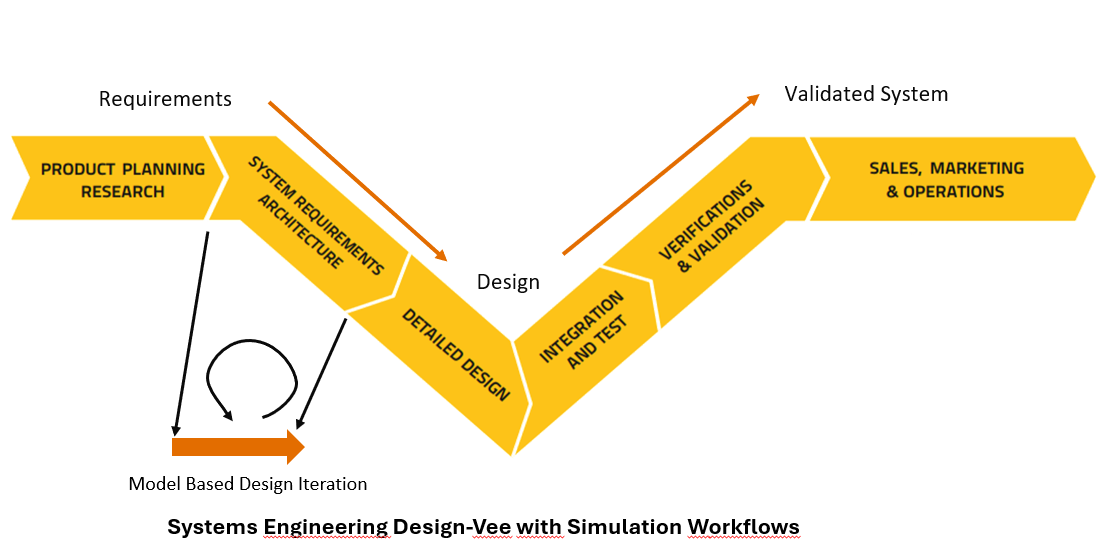
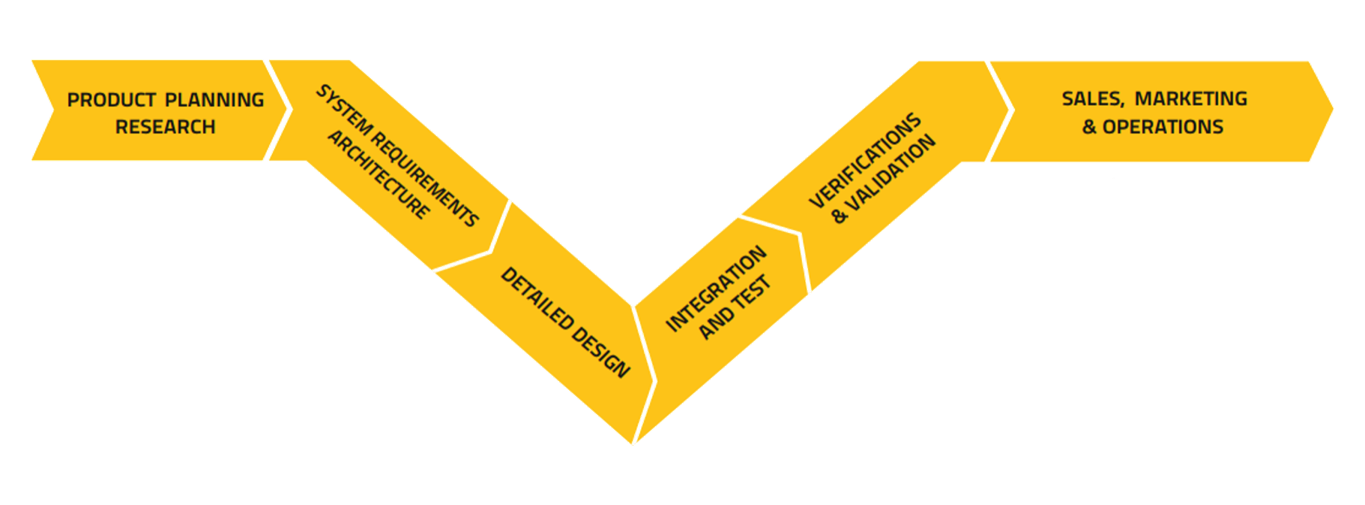
Fixes after initial deploy
Fixed typos, adapted images to dual mode, dark mode defauls

diff --git a/public/services/index.html b/public/services/index.html
@@ -14,14 +14,14 @@
   <link rel="stylesheet" href="/font-awesome/css/all.css">
   
   
-  <link rel="icon" href="/images/MiniLogo-favicon.svg">
-  
   
   
   <script src="/bootstrap/dist/js/bootstrap.bundle.9a4a11a15db88d5fab08f59c1c34796b03f1f15bb3cc928dd226e1c59f7f59a3.js"></script>
   
   
   
+  
+  <script src="/js/color-theme.js"></script>
   
   
 </head>
@@ -58,7 +58,7 @@
               <a class="nav-link py-2 px-0 px-lg-2 " href="/libraries/">Libraries</a>
             </li>
             <li class="nav-item col-6 col-lg-auto">
-              <a class="nav-link py-2 px-0 px-lg-2  active" href="/services/">Services</a>
+              <a class="nav-link py-2 px-0 px-lg-2 " href="/services/">Services</a>
             </li>
             <li class="nav-item dropdown col-6 col-lg-auto">
               <a class="nav-link dropdown-toggle" href="#" data-bs-toggle="dropdown" aria-expanded="false">Tools</a>
@@ -120,7 +120,7 @@
 <div class="container-md content">
 
 <h1 id="services">Services</h1>
-<p>The Team from MBI has over 20 years of experience in modeling and simulation, and the development model-based work flows and processes for a wide range of industries. With our wide-rangin experience, we can support you with a whole spectrum of services, from the design of your processes, teams and workflows to the details of figuring out the right abstraction for your models by applying the right math. We typically use the Systems Engineering Design-Vee, and more sepcifically, all digital, simulation based subset of it, to describe where and how we add business value to your product design.</p>
+<p>The Team from MBI has over 20 years of experience in modeling and simulation, and the development model-based work flows and processes for a wide range of industries. With our wide-ranging experience, we can support you with a whole spectrum of services, from the design of your processes, teams and workflows to the details of figuring out the right abstraction for your models by applying the right math. We typically use the Systems Engineering Design-Vee, and more sepcifically, all digital, simulation based subset of it, to describe where and how we add business value to your product design.</p>
 <ul>
 <li>Getting started with model based design, implementing a simulation-based process for product development</li>
 <li>Tool customization for Modelica-based tools, especially for Modelon Impact.</li>
@@ -132,7 +132,7 @@
 <li>Real time and hardware in the loop/ software in the loop simulation</li>
 <li>Building web-apps and extensions on top of Modelon Impact</li>
 </ul>
-<p><img src="/images/V-image.png" alt="Design-Vee"></p>
+<p><img src="/images/DoubleVeeFrontpage.svg" alt="Design-Vee"></p>
 <h2 id="standards">Standards</h2>
 <p>It is our strong conviction, that our customers will do better long-term if their processes and tool chains are based on open standards. Standards make sure that your valuable know-how is not locked up inside a proprietary format, giving you the freedom to choose the best tool for your purpose. We focus on the standards of the Modelica Association with the <a href="https://modelica.org/language/">Modelica Language</a>, commercial and open source <a href="https://modelica.org/libraries/">Modelica Libraries</a>, the <a href="https://fmi-standard.org/">FMI-Standard</a>, and the <a href="https://ssp-standard.org/">SSP-Standard</a> as the main ones we are supporting.</p>
 

diff --git a/public/categories/index.html b/public/categories/index.html
@@ -14,14 +14,14 @@
   <link rel="stylesheet" href="/font-awesome/css/all.css">
   
   
-  <link rel="icon" href="/images/MiniLogo-favicon.svg">
-  
   
   
   <script src="/bootstrap/dist/js/bootstrap.bundle.9a4a11a15db88d5fab08f59c1c34796b03f1f15bb3cc928dd226e1c59f7f59a3.js"></script>
   
   
   
+  
+  <script src="/js/color-theme.js"></script>
   
   
 </head>

diff --git a/public/company/index.html b/public/company/index.html
@@ -14,14 +14,14 @@
   <link rel="stylesheet" href="/font-awesome/css/all.css">
   
   
-  <link rel="icon" href="/images/MiniLogo-favicon.svg">
-  
   
   
   <script src="/bootstrap/dist/js/bootstrap.bundle.9a4a11a15db88d5fab08f59c1c34796b03f1f15bb3cc928dd226e1c59f7f59a3.js"></script>
   
   
   
+  
+  <script src="/js/color-theme.js"></script>
   
   
 </head>

diff --git a/public/imprint/index.html b/public/imprint/index.html
@@ -14,14 +14,14 @@
   <link rel="stylesheet" href="/font-awesome/css/all.css">
   
   
-  <link rel="icon" href="/images/MiniLogo-favicon.svg">
-  
   
   
   <script src="/bootstrap/dist/js/bootstrap.bundle.9a4a11a15db88d5fab08f59c1c34796b03f1f15bb3cc928dd226e1c59f7f59a3.js"></script>
   
   
   
+  
+  <script src="/js/color-theme.js"></script>
   
   
 </head>

diff --git a/public/index.html b/public/index.html
@@ -15,14 +15,14 @@
   <link rel="stylesheet" href="/font-awesome/css/all.css">
   
   
-  <link rel="icon" href="/images/MiniLogo-favicon.svg">
-  
   
   
   <script src="/bootstrap/dist/js/bootstrap.bundle.9a4a11a15db88d5fab08f59c1c34796b03f1f15bb3cc928dd226e1c59f7f59a3.js"></script>
   
   
   
+  
+  <script src="/js/color-theme.js"></script>
   
   
 </head>

diff --git a/public/libraries/index.html b/public/libraries/index.html
@@ -14,14 +14,14 @@
   <link rel="stylesheet" href="/font-awesome/css/all.css">
   
   
-  <link rel="icon" href="/images/MiniLogo-favicon.svg">
-  
   
   
   <script src="/bootstrap/dist/js/bootstrap.bundle.9a4a11a15db88d5fab08f59c1c34796b03f1f15bb3cc928dd226e1c59f7f59a3.js"></script>
   
   
   
+  
+  <script src="/js/color-theme.js"></script>
   
   
 </head>

diff --git a/public/privacy/index.html b/public/privacy/index.html
@@ -14,14 +14,14 @@
   <link rel="stylesheet" href="/font-awesome/css/all.css">
   
   
-  <link rel="icon" href="/images/MiniLogo-favicon.svg">
-  
   
   
   <script src="/bootstrap/dist/js/bootstrap.bundle.9a4a11a15db88d5fab08f59c1c34796b03f1f15bb3cc928dd226e1c59f7f59a3.js"></script>
   
   
   
+  
+  <script src="/js/color-theme.js"></script>
   
   
 </head>

diff --git a/public/tags/index.html b/public/tags/index.html
@@ -14,14 +14,14 @@
   <link rel="stylesheet" href="/font-awesome/css/all.css">
   
   
-  <link rel="icon" href="/images/MiniLogo-favicon.svg">
-  
   
   
   <script src="/bootstrap/dist/js/bootstrap.bundle.9a4a11a15db88d5fab08f59c1c34796b03f1f15bb3cc928dd226e1c59f7f59a3.js"></script>
   
   
   
+  
+  <script src="/js/color-theme.js"></script>
   
   
 </head>

diff --git a/public/tools/index.html b/public/tools/index.html
@@ -14,14 +14,14 @@
   <link rel="stylesheet" href="/font-awesome/css/all.css">
   
   
-  <link rel="icon" href="/images/MiniLogo-favicon.svg">
-  
   
   
   <script src="/bootstrap/dist/js/bootstrap.bundle.9a4a11a15db88d5fab08f59c1c34796b03f1f15bb3cc928dd226e1c59f7f59a3.js"></script>
   
   
   
+  
+  <script src="/js/color-theme.js"></script>
   
   
 </head>

diff --git a/content/Services.md b/content/Services.md
@@ -4,7 +4,7 @@ title: Services
 
 # Services
 
-The Team from MBI has over 20 years of experience in modeling and simulation, and the development model-based work flows and processes for a wide range of industries. With our wide-rangin experience, we can support you with a whole spectrum of services, from the design of your processes, teams and workflows to the details of figuring out the right abstraction for your models by applying the right math. We typically use the Systems Engineering Design-Vee, and more sepcifically, all digital, simulation based subset of it, to describe where and how we add business value to your product design. 
+The Team from MBI has over 20 years of experience in modeling and simulation, and the development model-based work flows and processes for a wide range of industries. With our wide-ranging experience, we can support you with a whole spectrum of services, from the design of your processes, teams and workflows to the details of figuring out the right abstraction for your models by applying the right math. We typically use the Systems Engineering Design-Vee, and more sepcifically, all digital, simulation based subset of it, to describe where and how we add business value to your product design. 
 
  - Getting started with model based design, implementing a simulation-based process for product development
  - Tool customization for Modelica-based tools, especially for Modelon Impact.
@@ -16,7 +16,7 @@ The Team from MBI has over 20 years of experience in modeling and simulation, an
  - Real time and hardware in the loop/ software in the loop simulation
  - Building web-apps and extensions on top of Modelon Impact
 
- ![Design-Vee](/images/V-image.png)
+ ![Design-Vee](/images/DoubleVeeFrontpage.svg)
 
 
 
